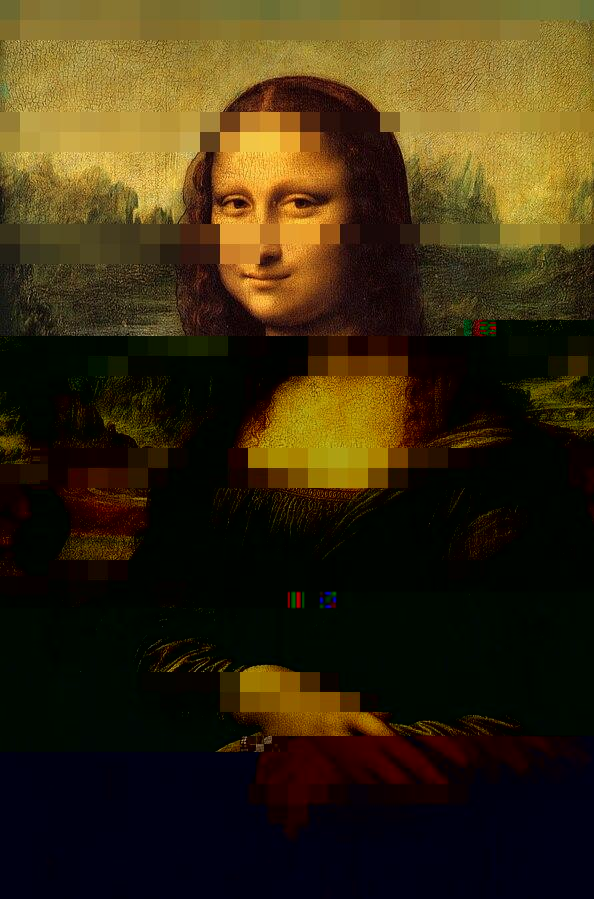
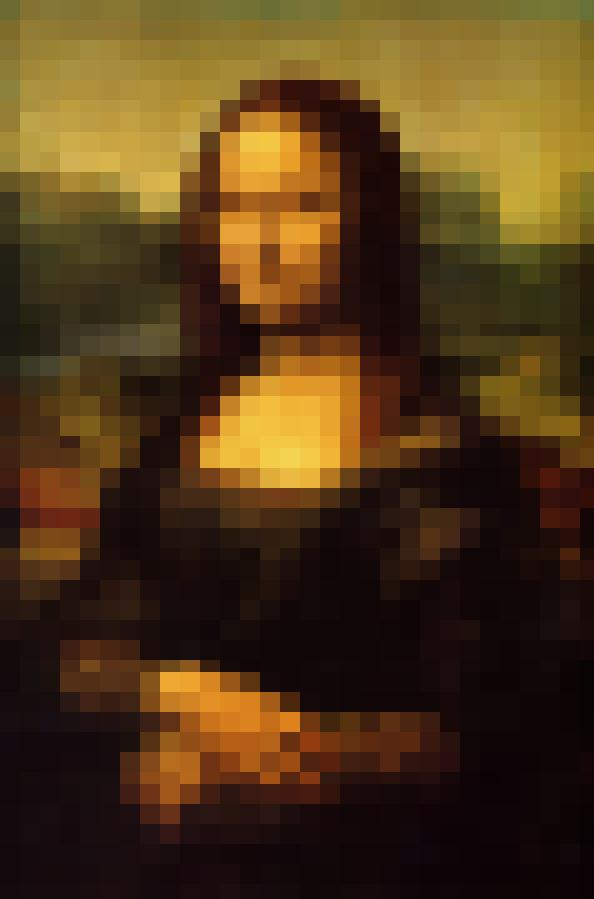
done

diff --git a/out/production/3-concurrency-hamidahagverdi/README.md b/out/production/3-concurrency-hamidahagverdi/README.md
@@ -1,1 +1,79 @@
-[![Review Assignment Due Date](https://classroom.github.com/assets/deadline-readme-button-22041afd0340ce965d47ae6ef1cefeee28c7c493a6346c4f15d667ab976d596c.svg)](https://classroom.github.com/a/YybNWfh8)
+# Image Processing Application
+
+A robust Java application that processes images by applying pixel averaging effects with support for both single-threaded and multi-threaded processing. The application provides real-time visual feedback of the processing through a graphical user interface.
+
+## Features
+
+- **Flexible Image Processing**
+  - Support for various image formats (JPG, PNG, etc.)
+  - Customizable square size for pixel averaging
+  - Real-time preview of processing effects
+  - Automatic scaling for large images (>1000px)
+
+- **Processing Modes**
+  - Single-threaded processing (S)
+  - Multi-threaded processing (M) utilizing available CPU cores
+  
+- **Error Handling**
+  - Comprehensive error logging system
+  - File-based logging with `imageprocessor.log`
+  - User-friendly error messages
+  - Robust input validation
+
+## Requirements
+
+- Java Development Kit (JDK) 8 or higher
+- Minimum 2GB RAM (recommended)
+- Graphics support for GUI display
+
+## Installation
+
+1. Clone the repository:
+```bash
+git clone
+```
+
+2. Compile the Java file:
+```bash
+javac Main.java
+```
+
+## Usage
+
+1. Run the compiled program:
+```bash
+java Main
+```
+
+2. When prompted, enter the input in the following format:
+```
+filename square_size mode
+```
+
+Parameters:
+- `filename`: Path to your image file (e.g., "image.jpg")
+- `square_size`: Size of the averaging square in pixels (e.g., 20)
+- `mode`: Processing mode - 'S' for single-threaded or 'M' for multi-threaded
+
+Example input:
+```
+image.jpg 20 S
+```
+
+## Processing Modes Explained
+
+### Single-threaded Mode (S)
+- Processes the image sequentially
+- Suitable for smaller images
+- More predictable memory usage
+
+### Multi-threaded Mode (M)
+- Automatically utilizes available CPU cores
+- Faster processing for larger images
+- Divides image into sections for parallel processing
+
+## Output
+
+- Processed image is saved as "result.jpg" in the working directory
+- Live preview is shown in a GUI window
+- Processing logs are written to "imageprocessor.log"
